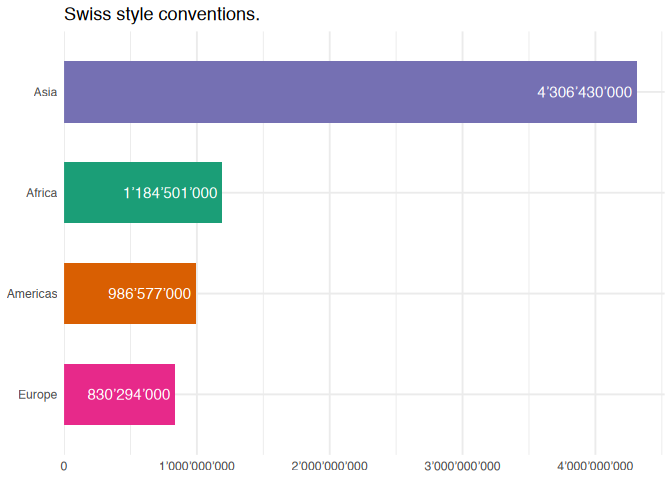
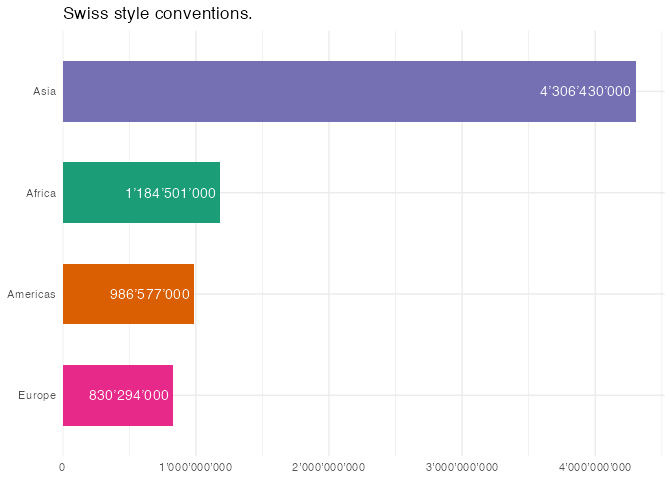
Switch README rendering to ragg, add status badges, set up code coverage
- Render README/pkgdown-home images with ragg_png instead of CairoPNG,
  the actively-maintained graphics device; add ragg to Suggests and to
  Config/Needs/website so the pkgdown CI job installs it too.
- Add R-CMD-check, CRAN status, and Codecov badges to README.Rmd/index.Rmd.
- Add a test-coverage GitHub Actions workflow (covr + Codecov upload) and
  covr to Suggests, backing the new coverage badge.
- Fix a stale NEWS.md bullet still advertising the bare number_de()/
  percent_ch()/currency_us() wrappers removed in PR #34.

Claude-Session: https://claude.ai/code/session_01Ji28NTeyWXtEqtvVfzVnot

diff --git a/NEWS.md b/NEWS.md
@@ -11,9 +11,8 @@ Initial CRAN release.
   numbering system (grouping by threes then twos) are not supported, as
   they deviate from the standard grouping this package implements.
 * Dedicated `_de()`, `_ch()`, and `_us()` wrapper families (e.g.
-  `label_number_de()`/`number_de()`, `label_percent_ch()`/`percent_ch()`,
-  `label_currency_us()`/`currency_us()`) provide ready-to-use formatters
-  for Germany, Switzerland, and the United States.
+  `label_number_de()`, `label_percent_ch()`, `label_currency_us()`) provide
+  ready-to-use formatters for Germany, Switzerland, and the United States.
 * `label_number_xx()`/`label_percent_xx()`/`label_currency_xx()` and their
   `scale_x/y_number/percent/currency_xx()` counterparts additionally cover
   24 more locales (#4): France (`fr`), the United Kingdom (`gb`), Italy

diff --git a/README.md b/README.md
@@ -8,6 +8,12 @@
 </div>
 
 <!-- badges: start -->
+
+[![R-CMD-check](https://github.com/trekonom/countryscales/actions/workflows/R-CMD-check.yaml/badge.svg)](https://github.com/trekonom/countryscales/actions/workflows/R-CMD-check.yaml)
+[![CRAN
+status](https://www.r-pkg.org/badges/version/countryscales)](https://CRAN.R-project.org/package=countryscales)
+[![Codecov test
+coverage](https://codecov.io/gh/trekonom/countryscales/graph/badge.svg)](https://app.codecov.io/gh/trekonom/countryscales)
 <!-- badges: end -->
 
 `countryscales` extends [`scales`](https://scales.r-lib.org) and
